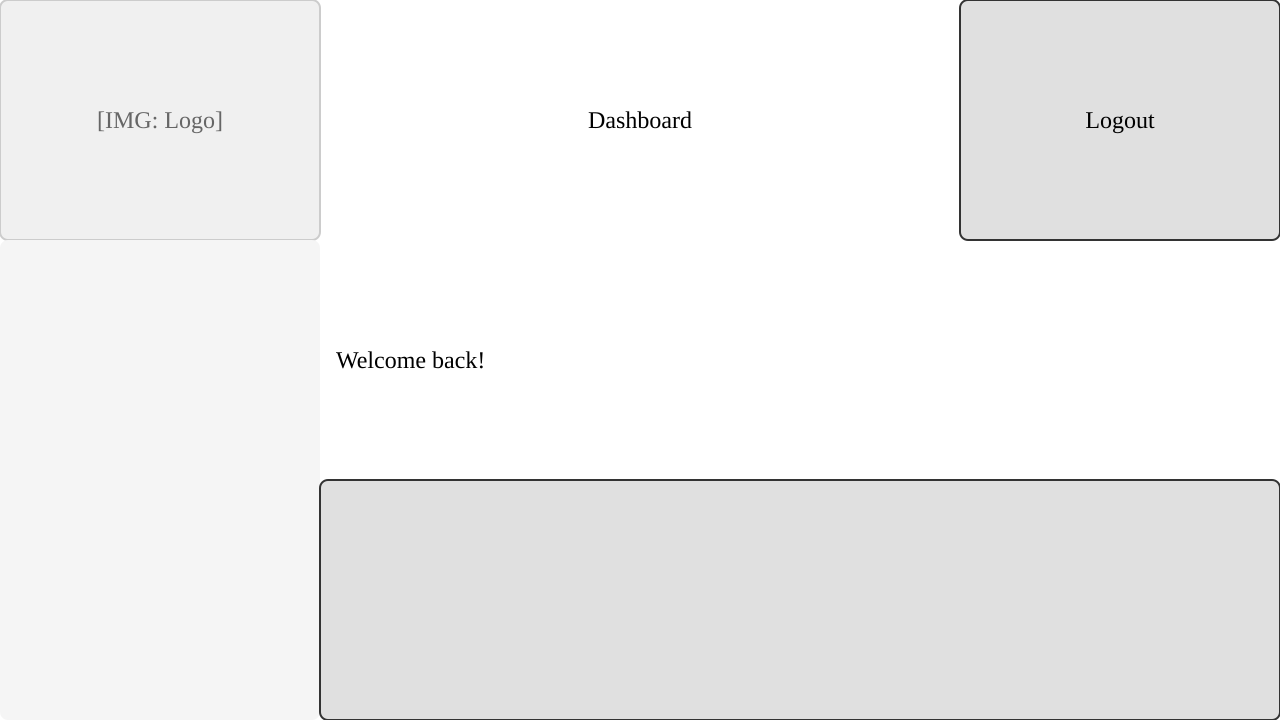
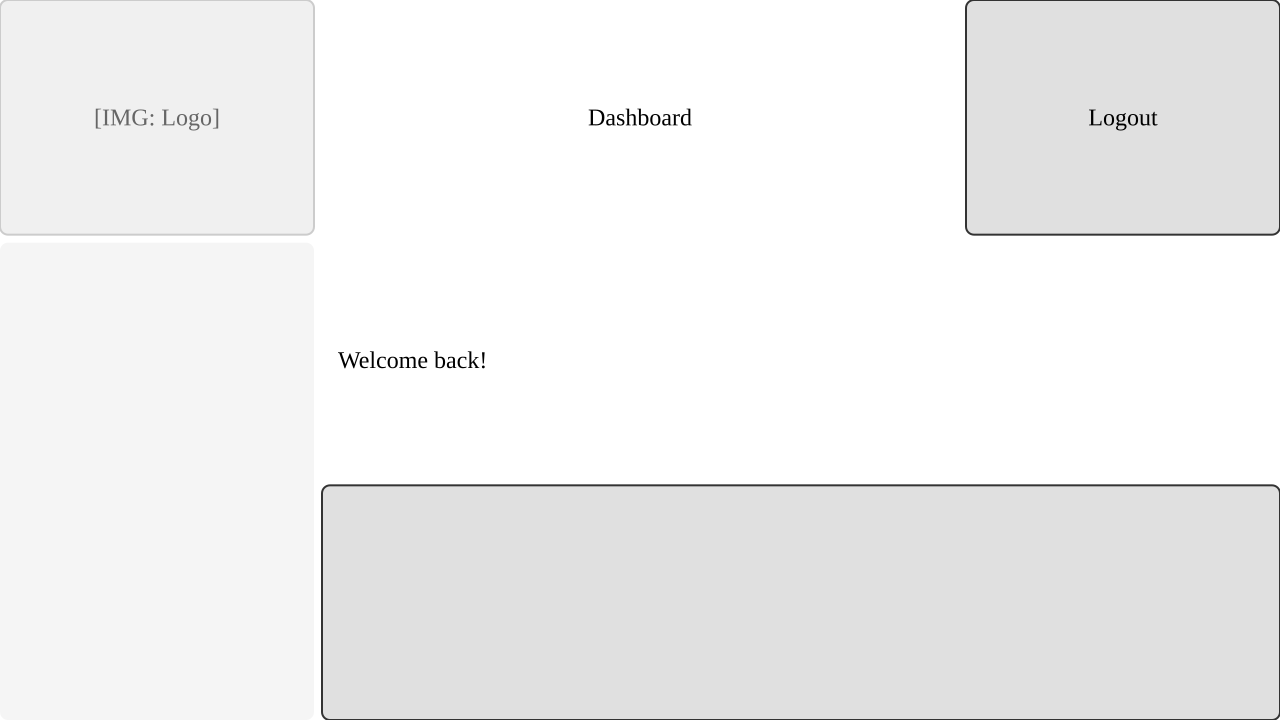
docs: add gap/padding documentation and update examples
- Add Gap & Padding section to README.md and README.ja.md
- Add padding property to component tables
- Add gap/padding to all example .kui files
- Regenerate example images with new spacing

diff --git a/README.ja.md b/README.ja.md
@@ -111,6 +111,24 @@ D3: { type: btn, value: "送信", bg: $primary }
 - セル参照はExcel形式: `A1`, `B2`, `C3`
 - 範囲指定: `A1..B3`（左上から右下）
 
+### 間隔とパディング
+
+```kui
+ratio: 16:9
+grid: 3x2
+gap: 8
+padding: 24
+
+A1: { type: box }
+B1: { type: box }
+C1: { type: box }
+A2..C2: { type: txt, value: "コンテンツエリア", padding: 16 }
+```
+
+- `gap` - セル間の間隔（ピクセル単位、デフォルト: `0`）
+- `padding` - キャンバスの余白（ピクセル単位、デフォルト: `0`）
+- セル単位の `padding` - 個別セルのコンテンツパディングを上書き
+
 ### コメント
 
 `//` でコメントを記述できます：
@@ -124,11 +142,11 @@ A1: { type: txt, value: "Hello" }  // 行末コメント
 
 | タイプ | 説明 | プロパティ | デフォルト |
 |--------|------|------------|------------|
-| `txt` | テキストラベル | `value`, `align`, `bg`, `border` | `align: left` |
-| `box` | 空のボックス/コンテナ | `bg`, `border` | `bg: #e0e0e0` |
-| `btn` | ボタン | `value`, `bg`, `border` | `bg: #e0e0e0` |
-| `input` | 入力フィールド | `label`, `bg`, `border` | `bg: white`, `border: black` |
-| `img` | 画像プレースホルダー | `src`, `alt`, `bg`, `border` | `bg: #f0f0f0`, `border: #ccc` |
+| `txt` | テキストラベル | `value`, `align`, `bg`, `border`, `padding` | `align: left` |
+| `box` | 空のボックス/コンテナ | `bg`, `border`, `padding` | `bg: #e0e0e0` |
+| `btn` | ボタン | `value`, `bg`, `border`, `padding` | `bg: #e0e0e0` |
+| `input` | 入力フィールド | `label`, `bg`, `border`, `padding` | `bg: white`, `border: black` |
+| `img` | 画像プレースホルダー | `src`, `alt`, `bg`, `border`, `padding` | `bg: #f0f0f0`, `border: #ccc` |
 
 ### カラー
 

diff --git a/README.md b/README.md
@@ -113,6 +113,24 @@ D3: { type: btn, value: "Submit", bg: $primary }
 - Cell references use Excel-style notation: `A1`, `B2`, `C3`
 - Range notation: `A1..B3` (top-left to bottom-right)
 
+### Gap & Padding
+
+```kui
+ratio: 16:9
+grid: 3x2
+gap: 8
+padding: 24
+
+A1: { type: box }
+B1: { type: box }
+C1: { type: box }
+A2..C2: { type: txt, value: "Content area", padding: 16 }
+```
+
+- `gap` - Spacing between cells (in pixels, default: `0`)
+- `padding` - Canvas margin (in pixels, default: `0`)
+- Per-cell `padding` - Override content padding for individual cells
+
 ### Comments
 
 Use `//` for comments:
@@ -126,11 +144,11 @@ A1: { type: txt, value: "Hello" }  // End-of-line comment
 
 | Type | Description | Properties | Defaults |
 |------|-------------|------------|----------|
-| `txt` | Text label | `value`, `align`, `bg`, `border` | `align: left` |
-| `box` | Empty box/container | `bg`, `border` | `bg: #e0e0e0` |
-| `btn` | Button | `value`, `bg`, `border` | `bg: #e0e0e0` |
-| `input` | Input field | `label`, `bg`, `border` | `bg: white`, `border: black` |
-| `img` | Image placeholder | `src`, `alt`, `bg`, `border` | `bg: #f0f0f0`, `border: #ccc` |
+| `txt` | Text label | `value`, `align`, `bg`, `border`, `padding` | `align: left` |
+| `box` | Empty box/container | `bg`, `border`, `padding` | `bg: #e0e0e0` |
+| `btn` | Button | `value`, `bg`, `border`, `padding` | `bg: #e0e0e0` |
+| `input` | Input field | `label`, `bg`, `border`, `padding` | `bg: white`, `border: black` |
+| `img` | Image placeholder | `src`, `alt`, `bg`, `border`, `padding` | `bg: #f0f0f0`, `border: #ccc` |
 
 ### Colors
 
